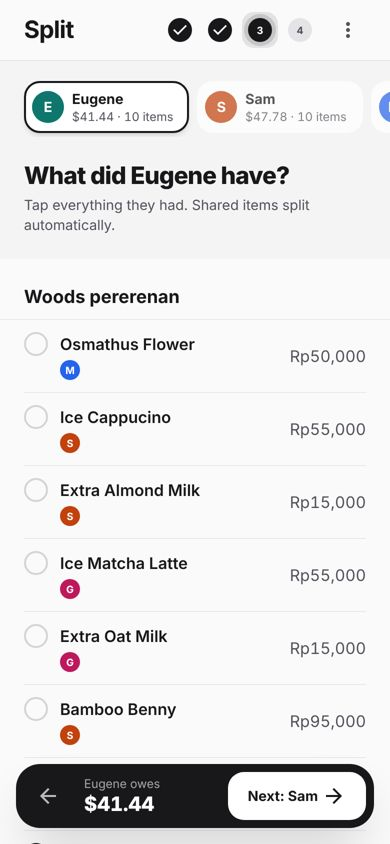
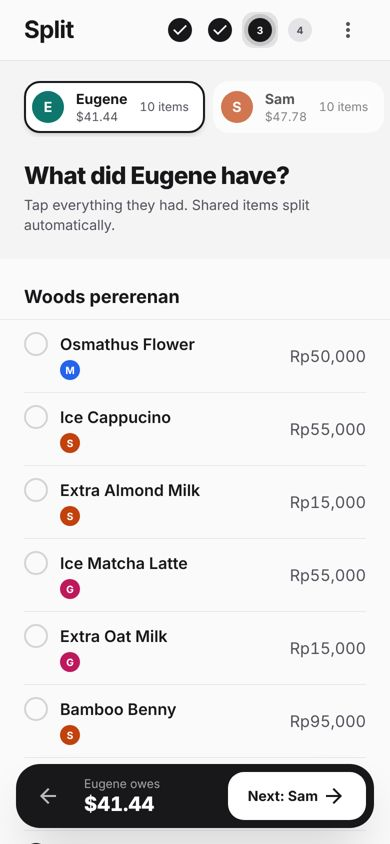
fix(items): pin each card's item count to its right edge
The count sits centred on the right of each person card, apart from the
name and total.

Changed region(s): [[0.3385, 0.0924, 1.0, 0.1848], [0.1846, 0.0924, 0.3385, 0.154]]

diff --git a/src/features/split-workspace/components/steps/AssignStep/ClaimPeopleRail.tsx b/src/features/split-workspace/components/steps/AssignStep/ClaimPeopleRail.tsx
@@ -31,7 +31,7 @@ export function ClaimPeopleRail({ people, onSelect, layout, className }: Props) 
           data-testid={`claim-person-${person.id}`}
           onClick={() => onSelect(person.id)}
           className={cn(
-            'flex shrink-0 items-center gap-2 rounded-2xl border-2 bg-surface-container-lowest py-1.5 pr-3.5 pl-1.5 text-left transition-all',
+            'flex shrink-0 items-center gap-3 rounded-2xl border-2 bg-surface-container-lowest py-1.5 pr-3.5 pl-1.5 text-left transition-all',
             layout === 'column' && 'w-full',
             person.isActive
               ? 'border-primary shadow-md'
@@ -45,12 +45,15 @@ export function ClaimPeopleRail({ people, onSelect, layout, className }: Props) 
             >
               {layout === 'row' ? person.firstName : person.name}
             </span>
-            <span
-              data-testid={`claim-person-stats-${person.id}`}
-              className="block text-xs whitespace-nowrap text-on-surface-variant tabular-nums"
-            >
-              {person.totalLabel} · {formatItemCount(person.itemCount)}
+            <span className="block text-xs text-on-surface-variant tabular-nums">
+              {person.totalLabel}
             </span>
+          </span>
+          <span
+            data-testid={`claim-person-items-${person.id}`}
+            className="shrink-0 text-xs whitespace-nowrap text-on-surface-variant tabular-nums"
+          >
+            {formatItemCount(person.itemCount)}
           </span>
         </button>
       ))}

diff --git a/src/features/split-workspace/components/steps/AssignStep/AssignStep.test.tsx b/src/features/split-workspace/components/steps/AssignStep/AssignStep.test.tsx
@@ -115,7 +115,8 @@ describe('AssignStep', () => {
     renderStep('p2');
 
     expect(screen.getByRole('heading', { level: 1 })).toHaveTextContent('What did Bob have?');
-    expect(screen.getAllByTestId('claim-person-stats-p2')[0]).toHaveTextContent('$4.50 · 2 items');
+    expect(screen.getAllByTestId('claim-person-p2')[0]).toHaveTextContent('$4.50');
+    expect(screen.getAllByTestId('claim-person-items-p2')[0]).toHaveTextContent('2 items');
     expect(screen.getAllByTestId('claim-person-p2')[0]).toHaveAttribute('aria-pressed', 'true');
     expect(screen.getByTestId('claim-left-filter')).toHaveTextContent('1 item left');
   });
